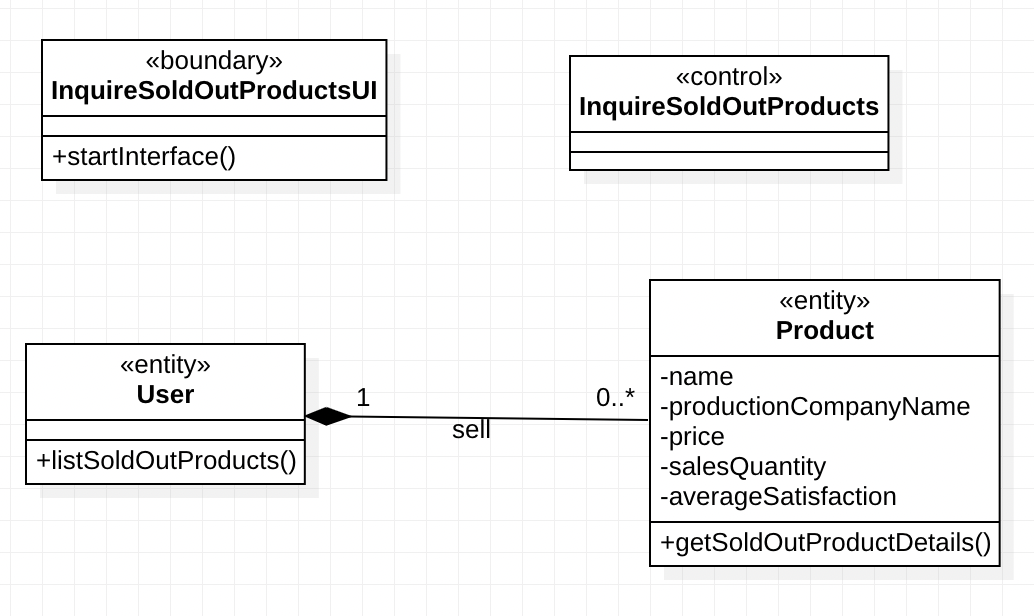
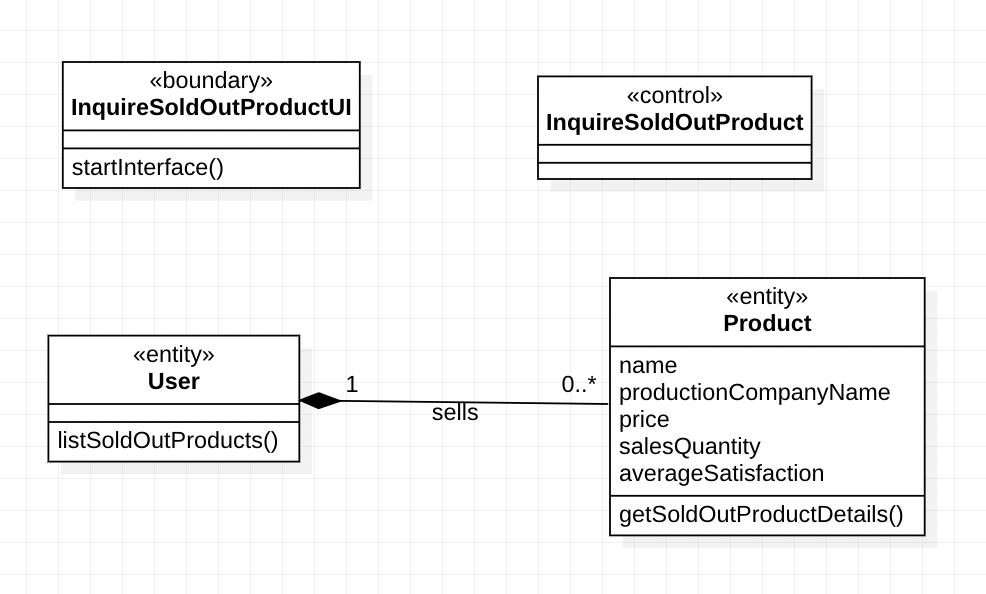
판매 완료 상품 내역 조회 수정

Changed region(s): [[0.0, 0.4545, 0.9736, 0.9394], [0.0304, 0.0606, 0.3955, 0.3333], [0.5477, 0.0909, 0.8824, 0.303]]

diff --git a/seonghee/hw2/inquire_sold_out_products/README.md b/seonghee/hw2/inquire_sold_out_products/README.md
@@ -8,7 +8,7 @@
 |2. 판매자가 판매 완료한 의류 상품을 조회한다.||
 
 ## 📌 Communication Diagram
-<img width="703" alt="inquire_sold_out_products_communication_diagram" src="https://user-images.githubusercontent.com/87361140/168425436-d606191d-602b-4a1c-9c3c-c13ae4f49782.png">
+<img width="635" alt="inquire_sold_out_products_communication_diagram" src="https://user-images.githubusercontent.com/87361140/168961698-ffa8bb8d-25ba-4eb5-ad79-d744c3d49e03.png">
 
 ## 📌 Use Case Class Diagram
-<img width="517" alt="inquire_sold_out_products_class_diagram" src="https://user-images.githubusercontent.com/87361140/168425446-217e376c-465a-403c-a5f0-44f013d1ec7e.png">
+<img width="493" alt="inquire_sold_out_products_class_diagram" src="https://user-images.githubusercontent.com/87361140/168961701-6847ece8-8991-4c19-84d6-eaac183bf143.png">
